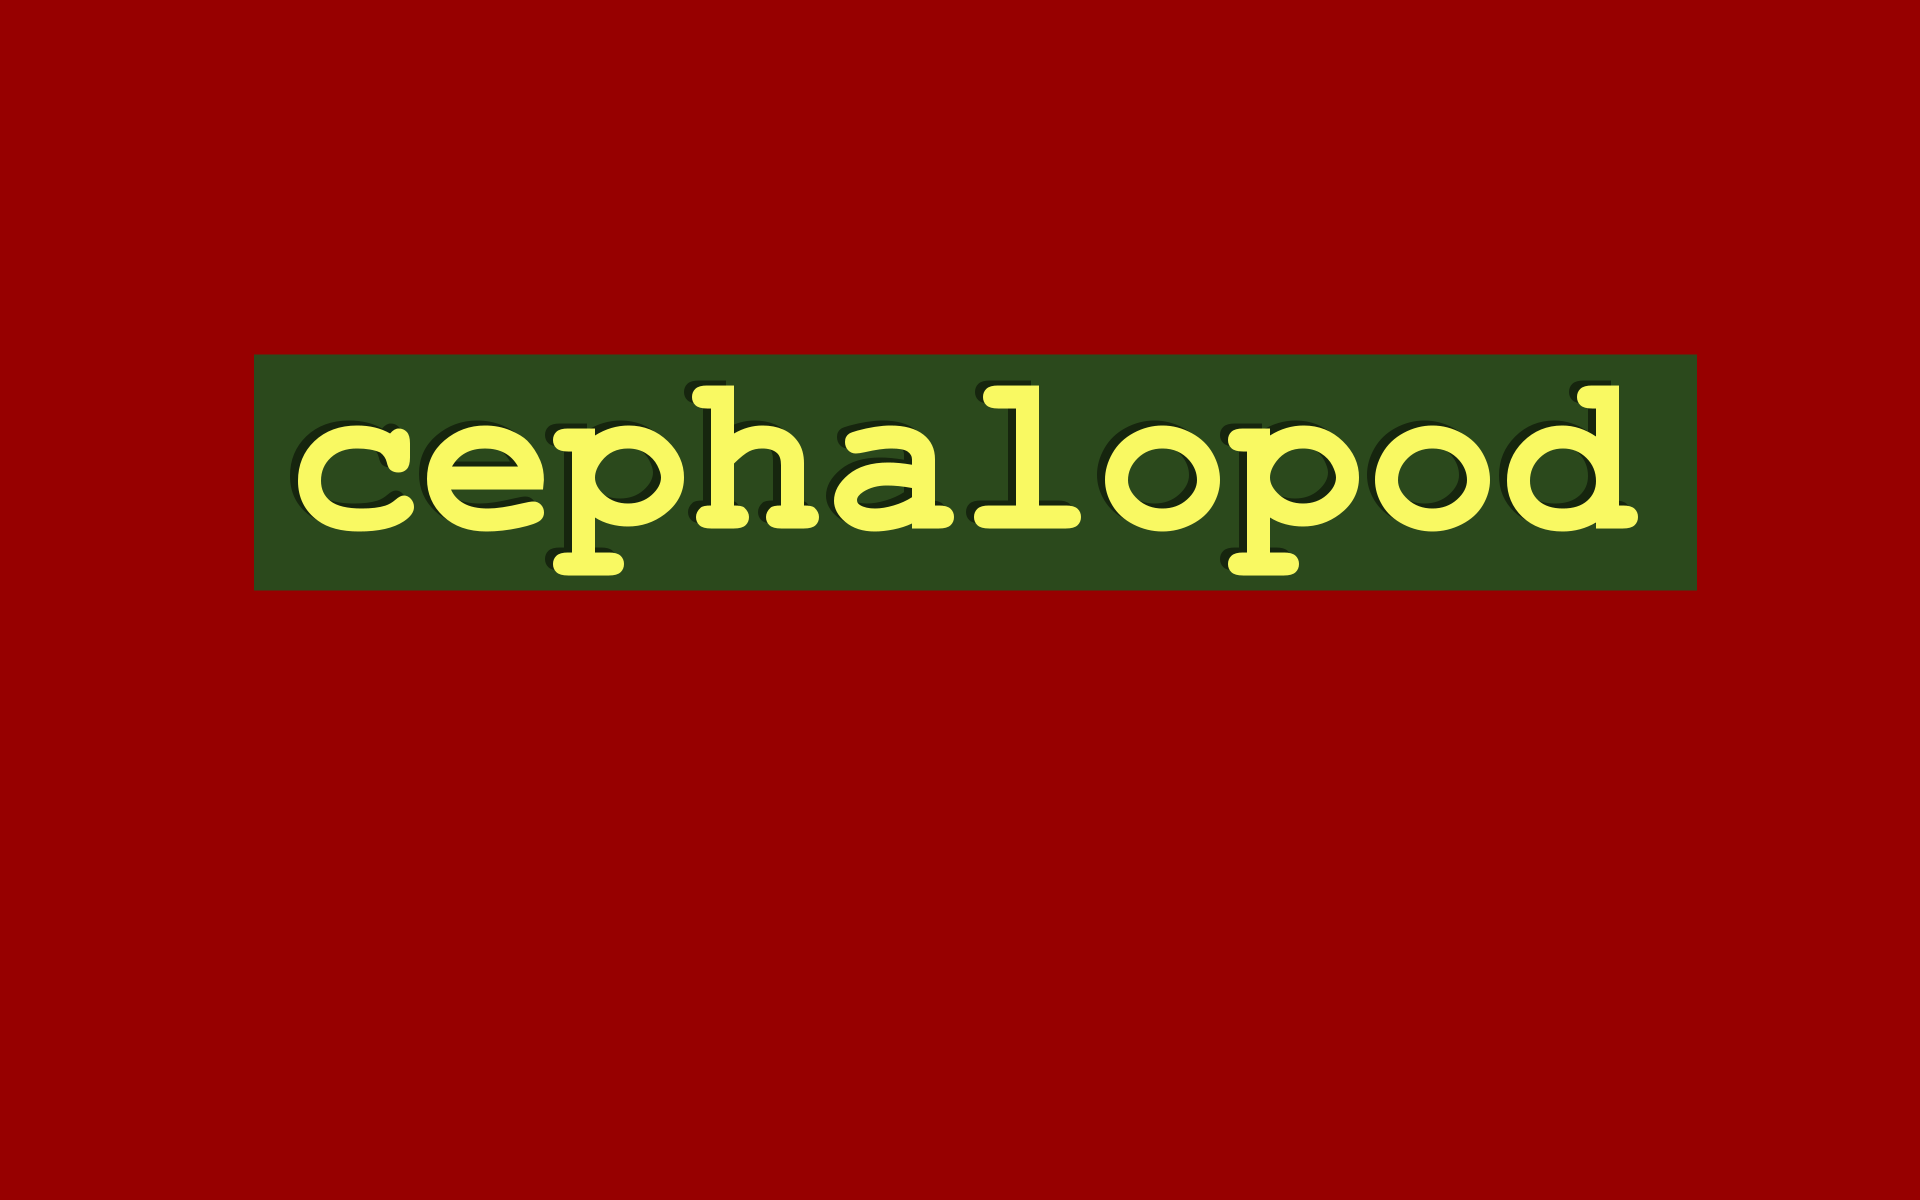
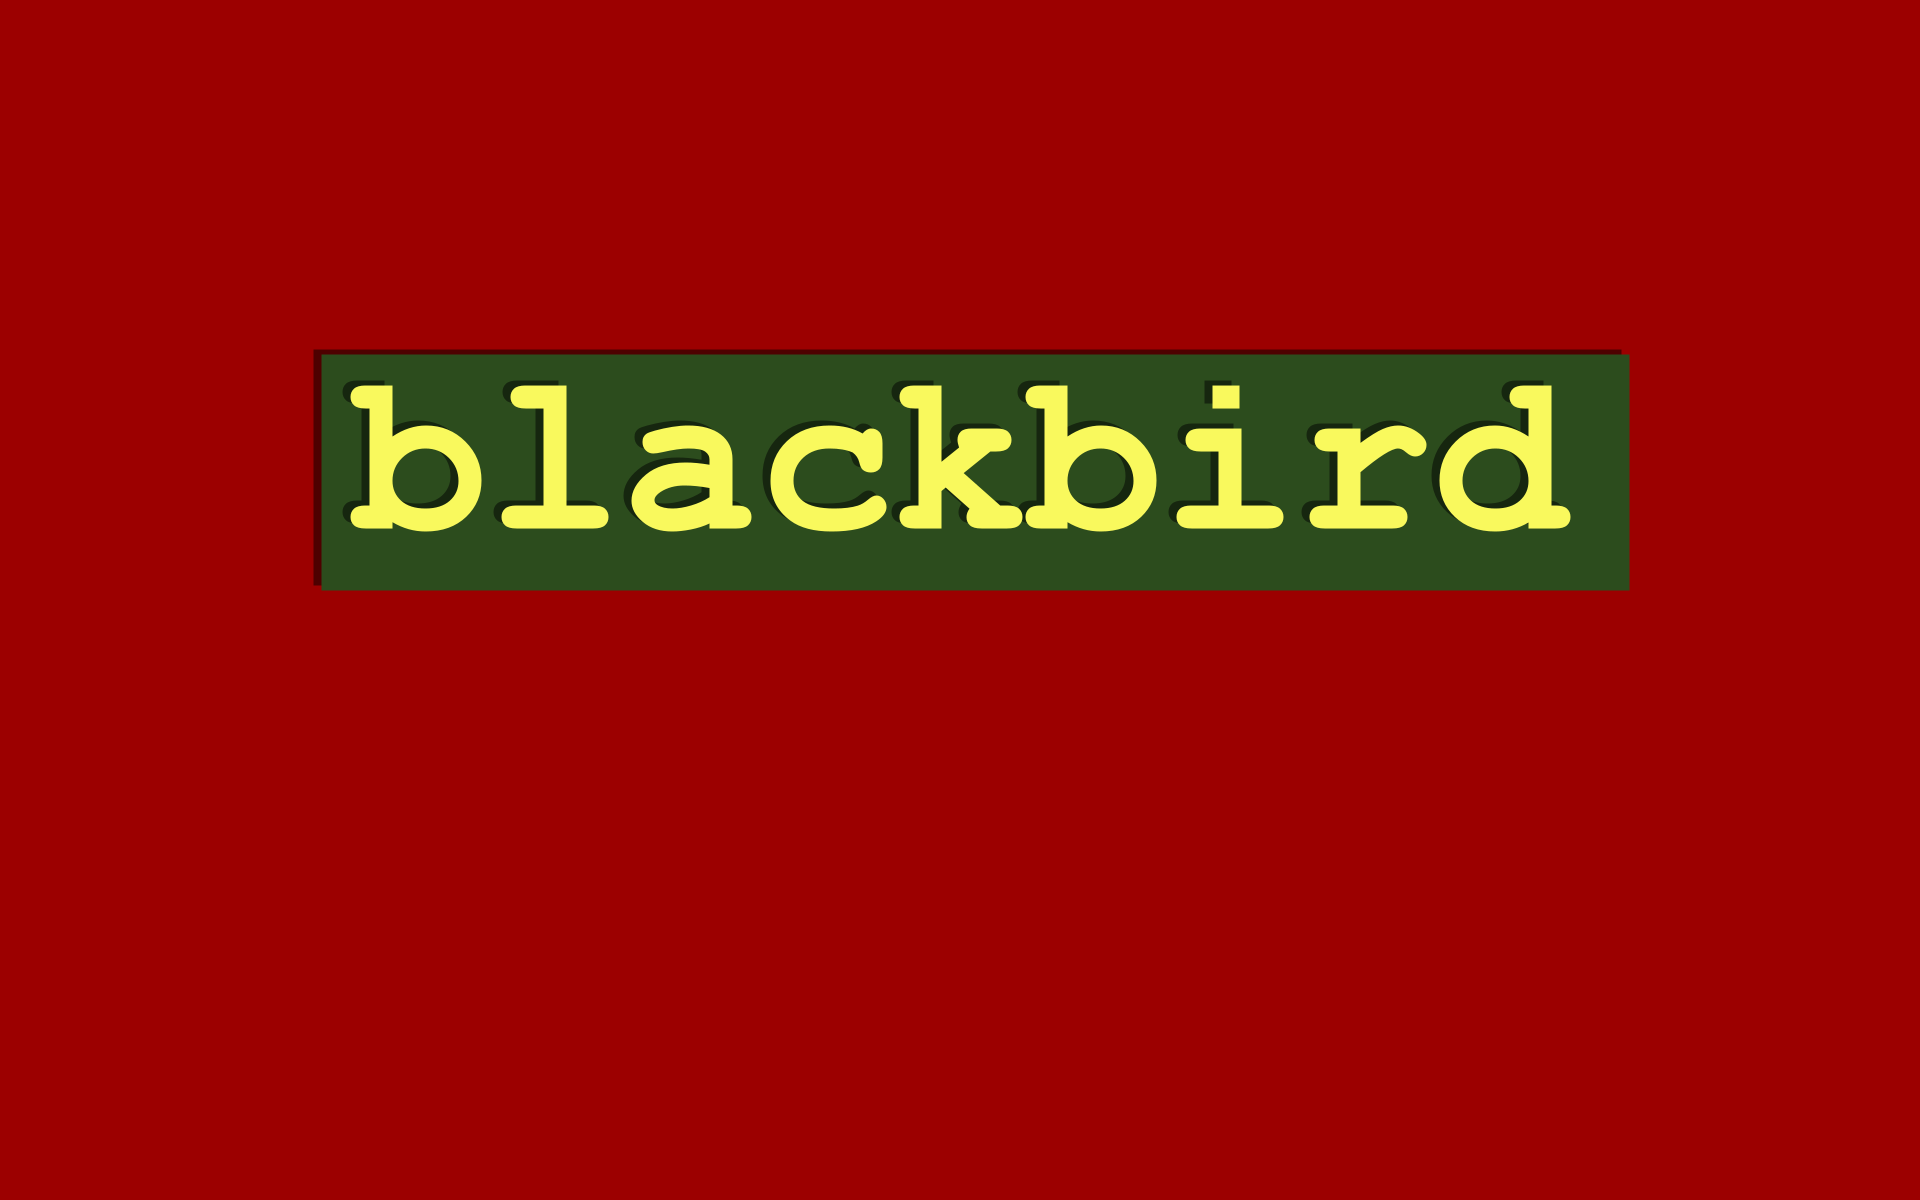
Add shadow to label.

Changed region(s): [[0.125, 0.2775, 0.9062, 0.4933]]

diff --git a/lib/wallpaper/text.js b/lib/wallpaper/text.js
@@ -14,11 +14,12 @@ export const drawText = (g, palette, date) => {
 
   const textX = (g.width - textMeasurements.width) / 2
   const textY = g.height / 2 - textMeasurements.actualBoundingBoxAscent / 2
-  
+
   if (config.labelBehindText) {
     const pad = 8 + date.getDate()
-    g.context.fillStyle = palette.label.getColor()
-    g.context.fillRect(
+
+    g.drawRect(
+      palette.label,
       textX - pad,
       textY - pad - textMeasurements.actualBoundingBoxAscent,
       textMeasurements.width + pad * 3,

diff --git a/lib/wallpaper/palette.js b/lib/wallpaper/palette.js
@@ -1,7 +1,7 @@
 import { mix } from '../general/colour.js'
 
 export const generatePalette = (date) => {
-  const shade = date.getDate() + 128
+  const shade = date.getDate() * 4 + 64
   const day = date.getDay()
 
   const palette = {
@@ -11,7 +11,7 @@ export const generatePalette = (date) => {
     label: mix(shade * 0.5, shade * 0.2, shade * 0.3, 32),
   }
 
-  for (let j = 0; j < day * day + 1; j++) {
+  for (let j = 0; j < day ; j++) {
     palette.background.shift()
     palette.label.shift()
   }

diff --git a/lib/general/gfx.js b/lib/general/gfx.js
@@ -32,4 +32,15 @@ export class Gfx {
     c.fillStyle = color.getColor()
     c.fillText(text, x, y)
   }
+
+  drawRect(color, x, y, width, height, shadow = true, x_s = 8, y_s = 5) {
+    const c = this.context
+    c.fillStyle = color.getColor()
+    if (shadow) {
+      c.fillStyle = 'rgba(0,0,0,0.5)'
+      c.fillRect(x - x_s, y - y_s, width, height)
+    }
+    c.fillStyle = color.getColor()
+    c.fillRect(x, y, width, height)
+  }
 }
